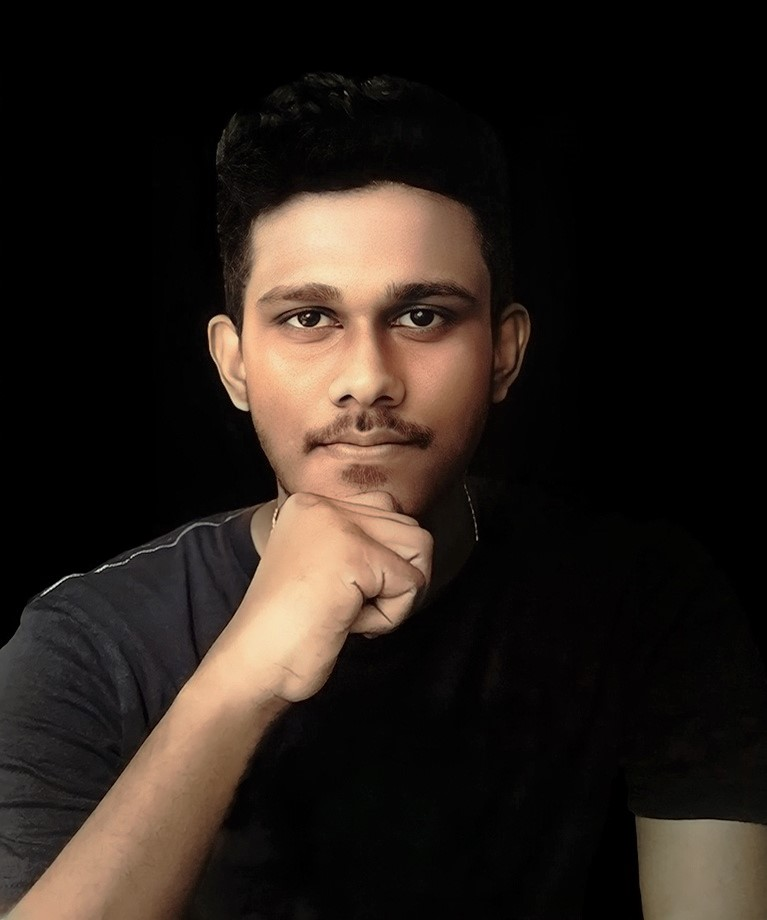
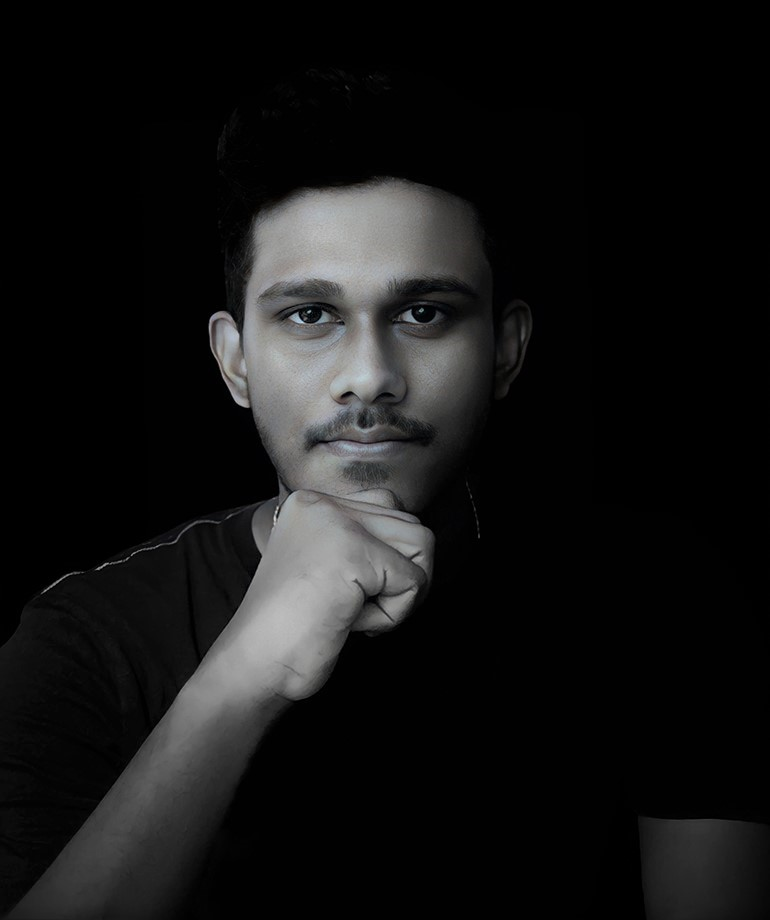
Updated UI Design

diff --git a/src/Components/Portfolio.jsx b/src/Components/Portfolio.jsx
@@ -6,14 +6,14 @@ import p3 from "../Assets/proj3.png"
 const Portfolio = () => {
   return (
     <div id="portfolio" name="portfolio" className="dark-back w-full h-max">
-        <div className="max-w-screen-lg mx-auto p-4 flex flex-col justify-center w-full font-color1">
+        <div className="max-w-screen-xl mx-auto p-4 flex flex-col justify-center w-full font-color1">
             <div className="mt-10 lg:mt-20">
                 <div className="text-center">
-                <p className="text-4xl sm:text-6xl font-extrabold font-main text-white border-b-2 border-cyan-500 p-2 inline">
-                    Portfolio
+                <p className="text-3xl sm:text-6xl font-light font-hero text-slate-500 border-b border-teal-400 p-2 inline">
+                    P O R T F O L I O
                 </p>
                 </div>
-                <p className="text-base sm:text-2xl text-center font-semibold mt-16 mb-16 text-sky-400 font-logo">
+                <p className="text-base sm:text-2xl text-center font-normal mt-16 mb-16 text-teal-400 font-logo">
                     Freely inspired design projects
                 </p>
             </div>
@@ -22,8 +22,8 @@ const Portfolio = () => {
                     <img src={p1} alt="" loading="lazy" className="rounded-lg w-3/4 font-color1 hover:scale-105 duration-300 mx-auto lg:mt-4 lg:ml-10"/>
                 </div>
                 <div className="mt-4 lg:mt-0 text-center lg:text-left lg:border-r-2 lg:border-white lg:border-opacity-5">
-                    <h4 className="py-4 sm:text-lg lg:text-2xl font-logo font-semibold border-b-2 border-sky-400 lg:mr-10 ">Sampath Vishwa App Design</h4>
-                    <p className=" indent-6 text-justify text-sm font-logo mt-4 mb-8 text-gray-300 mx-auto lg:mr-10">
+                    <h4 className="py-4 sm:text-lg lg:text-3xl font-hero mt-4 font-light border-b border-teal-400 lg:mr-10 ">SAMPATH VISHWA APP DESIGN</h4>
+                    <p className=" indent-6 text-justify text-sm font-logo mt-4 mb-8 lg:mt-16 lg:mb-16 text-gray-300 mx-auto lg:mr-10">
                                 Here is my project of redesigning the mobile app for
                                 well-known bank called Sampath Bank in Sri Lanka.
                                 Currently the "Sampath Vishwa" the mobile banking app
@@ -34,13 +34,13 @@ const Portfolio = () => {
                                 iOS interface.
                                 Please click the link below to check the full project on Behance.                             
                     </p>
-                    <a href="https://www.behance.net/gallery/159063705/iOS-User-Interface-for-Sampath-Vishwa-App" target="_blank" rel="noreferrer" className="text-base text-sky-400 font-logo font-medium animate-pulse hover:animate-none">View full project</a>
+                    <a href="https://www.behance.net/gallery/159063705/iOS-User-Interface-for-Sampath-Vishwa-App" target="_blank" rel="noreferrer" className="text-base text-teal-400 font-logo font-medium animate-pulse hover:animate-none">View full project</a>
                 </div>
                 <div className="mt-14 lg:mt-0 text-center lg:text-left lg:border-l-2 lg:border-white lg:border-opacity-5">
-                    <h4 className="py-4 sm:text-base lg:text-2xl font-logo font-semibold border-b-2 border-sky-400 lg:ml-10">
-                        Absolute Beverages App Design
+                    <h4 className="py-4 sm:text-lg lg:text-3xl mt-4 font-hero font-light border-b border-teal-400 lg:ml-10">
+                        ABSOLUTE BEVERAGES APP DESIGN
                     </h4>
-                    <p className="text-justify indent-6 text-sm font-logo mt-4 mb-8 mx-auto lg:ml-10 text-gray-300">
+                    <p className="text-justify indent-6 text-sm font-logo mt-8 mb-8 lg:mt-16 lg:mb-16 mx-auto lg:ml-10 text-gray-300">
                             The Absolute Beverages is a mobile app for purchase beverages 
                             through online. Users can simply log in to the app and 
                             they can buy their favorite products and also can add them 
@@ -50,7 +50,7 @@ const Portfolio = () => {
                             Hope to develop it as a full design project in future.
                             Please click the link below to check the full project on Behance.  
                     </p>  
-                    <a href="https://www.behance.net/gallery/159225747/Absolute-Beverages-iOS-Concept-App"  target="_blank" rel="noreferrer" className="text-base text-sky-400 font-logo font-medium lg:ml-10 animate-pulse hover:animate-none">View full project</a>  
+                    <a href="https://www.behance.net/gallery/159225747/Absolute-Beverages-iOS-Concept-App"  target="_blank" rel="noreferrer" className="text-base text-teal-400 font-logo font-medium lg:ml-10 animate-pulse hover:animate-none">View full project</a>  
                 </div>
                 <div className="">
                     <img src={p2} alt="" loading="lazy" className="rounded-lg w-3/4 font-color1 hover:scale-105 duration-300 mx-auto lg:mr-10 mt-8 lg:mt-4"/>
@@ -59,10 +59,10 @@ const Portfolio = () => {
                     <img src={p3} alt="" loading="lazy" className="rounded-lg w-3/4 font-color1 hover:scale-105 duration-300 hover:shadow-md mx-auto lg:ml-10"/>
                 </div>
                 <div className="mt-4 lg:mt-0 text-center lg:text-left lg:border-r-2 lg:border-white lg:border-opacity-5">
-                    <h4 className="py-4 sm:text-base lg:text-2xl font-logo font-semibold border-b-2 border-sky-400 lg:mr-10">
-                        NIKE Boots Store App Design
+                    <h4 className="py-4 sm:text-base lg:text-3xl font-hero mt-4 font-light border-b border-teal-400 lg:mr-10">
+                        NIKE BOOTS STORE APP DESIGN
                     </h4>
-                    <p className="indent-6 text-justify text-sm font-logo mt-4 mb-8 mx-auto lg:mr-10 text-gray-300">
+                    <p className="indent-6 text-justify text-sm font-logo mt-4 mb-8 lg:mt-16 lg:mb-16 mx-4 lg:mx-auto lg:mr-10 text-gray-300">
                                 NIKE is one of the leading manufacturer in shoes
                                 for both men and women even for kids. Also they
                                 have a huge reputation in sports industry and the
@@ -74,7 +74,7 @@ const Portfolio = () => {
                                 Its not a complete design project, but you can check
                                 the demonstration of few interfaces using below link. 
                     </p>
-                    <a href="https://www.behance.net/gallery/159678531/NIKE-Boots-Store"  target="_blank" rel="noreferrer" className="text-base text-sky-400 font-logo font-medium animate-pulse hover:animate-none">View full project</a>
+                    <a href="https://www.behance.net/gallery/159678531/NIKE-Boots-Store"  target="_blank" rel="noreferrer" className="text-base text-teal-400 font-logo font-medium animate-pulse hover:animate-none">View full project</a>
                 </div>
             </div>
         </div>

diff --git a/src/Components/Home.jsx b/src/Components/Home.jsx
@@ -38,21 +38,28 @@ const Home = () => {
     return (
         <div id="home" name="home" className="h-max w-full py-4 dark-back">
 
-            <div className="max-w-screen-lg mx-auto flex flex-col items-center justify-center h-full px-4 sm:pt-16 md:flex-row">
+            <div className="max-w-screen-xl mx-auto flex flex-col items-stretch justify-center h-full px-4 sm:pt-16 md:flex-row">
 
-                <div className="flex flex-col justify-center h-full w-full"> 
+                <div className="flex flex-col justify-center h-full lg:w-[1500px] w-full"> 
                     <div className="flex">
-                        <h3 className="text-xl sm:text-2xl pt-16 pb-4 lg:pb-10 font-logo font-color1 font-light">
-                            HEY THERE, I'M RUKITH RANASINGHE !
+                        <h3 className="text-md sm:text-2xl pt-10 pb-4 font-logo font-color1 font-light">
+                            Hey There ! I'm <a href="#/" target="_blank" rel="noreferrer" className="font-name sm:text-4xl text-3xl text-teal-400 cursor-text">Rukith Ranasinghe</a>
                         </h3>
-                        <img src={Heart} alt="my profile" className="w-16 h-16 sm:w-20 sm:h-20 mt-14 sm:mt-10 mx-auto animate-bounceSlow" />
+                        <img src={Heart} alt="my profile" className="w-12 h-12 sm:w-16 sm:h-16 mt-12 sm:mt-8 mb-8 mx-10 animate-bounceSlow" />
                     </div>
-                     <h2 className="text-4xl sm:text-6xl font-extrabold font-logo bg-gradient-to-r from-sky-500 via-green-400 to-green-500 bg-clip-text text-transparent">
-                        DESIGNER, DEVELOPER AND SOLUTION PROVIDER
+                     {/* <h2 className="text-4xl sm:text-6xl font-extrabold font-logo bg-gradient-to-r from-teal-500 via-green-400 to-green-500 bg-clip-text text-transparent"> */}
+                     <h2 className="text-4xl sm:text-7xl font-light font-hero text-slate-500 hover:text-slate-300 duration-300 mb-2">
+                        UI DESIGNER
                     </h2>
-                    <p className="font-color2 my-6 py-2 px-2 rounded-lg max-w-md font-normal back-gray1 text-base sm:text-lg font-main">
-                        Amatuer level <a href="https://www.interaction-design.org/literature/topics/ui-design" target="_blank" rel="noreferrer" className="font-medium text-sm sm:text-base text-sky-400">UI Engineer</a><br/>
-                        Undergraduate at <a href="https://www.nibm.lk/" target="_blank" rel="noreferrer" className="font-medium text-sm sm:text-base text-sky-400">NIBM - Colombo, Sri Lanka</a>
+                    <h2 className="text-4xl sm:text-7xl font-light font-hero text-slate-500 hover:text-slate-300 duration-300 mb-2">
+                        WEB DEVELOPER
+                    </h2>
+                    <h2 className="text-4xl sm:text-7xl font-light font-hero text-slate-500 hover:text-slate-300 duration-300">
+                        SOLUTION PROVIDER
+                    </h2>
+                    <p className="font-color2 my-6 py-2 px-4 rounded-lg max-w-md font-normal back-gray1 text-base sm:text-lg font-main">
+                        BSc (Hons) in <a href="https://www.nibm.lk/programmes/bsc-hons-computing/" target="_blank" rel="noreferrer" className="font-medium text-sm sm:text-base text-teal-400">Computer Science</a><br/>
+                        Undergraduate at <a href="https://www.nibm.lk/" target="_blank" rel="noreferrer" className="font-medium text-sm sm:text-base text-teal-400">NIBM - Colombo, Sri Lanka</a>
                     </p>
                     
                     <h4 className="font-color2 text-base sm:text-lg mt-4 font-logo">Get in touch</h4>
@@ -64,7 +71,7 @@ const Home = () => {
                 </div>
                 <div className="sm:ml-12 mt-6 sm:mt-20">
                     <img src={MyImage} alt="my profile"
-                    className="rounded-lg w-full" />
+                    className="rounded-lg w-full mix-blend-screen" />
                 </div>
             </div>
         </div>

diff --git a/src/Components/NavBar.jsx b/src/Components/NavBar.jsx
@@ -10,22 +10,22 @@ const NavBar = () => {
     const links = [
         {
             id: 1,
-            links: 'home',
+            links: 'HOME',
             href: '#home'
         },
         {
             id: 2,
-            links: 'about',
+            links: 'ABOUT',
             href: '#about'
         },
         {
             id: 3,
-            links: 'portfolio',
+            links: 'PORTFOLIO',
             href: '#portfolio'
         },
         {
             id: 4,
-            links: 'experience',
+            links: 'EXPERIENCE',
             href: '#experience'
         },
         // {
@@ -37,15 +37,15 @@ const NavBar = () => {
     return (
         <div className="flex justify-between items-center w-full h-10 sm:h-20 px-4 py-4 dark-back fixed z-10"> 
             <div className="flex cursor-default">
-                <img src={logo} alt="my logo" className="w-6 h-6 sm:h-8 sm:w-8 sm:ml-24 mt-1"/>
-                <h1 className="text-xl font-extrabold sm:text-2xl font-main ml-4 text-sky-400">RUKI7H</h1>
-                <h2 className="ml-1 mt-1 text-xs font-logo text-sky-400">TM</h2>
+                <img src={logo} alt="my logo" className="w-4 h-4 sm:h-6 sm:w-6 sm:ml-24 mt-1"/>
+                <h1 className="text-base font-bold sm:text-lg font-main ml-4 text-teal-400">RUKI7H</h1>
+                <h2 className="ml-1 mt-1 text-xs font-logo text-teal-400">TM</h2>
             </div>
 
             <ul className="hidden md:flex mr-24">
 
             {links.map(({ id, links, href}) =>(
-            <a href={href}><li key={id} className="px-4 cursor-pointer capitalize font-medium font-main text-lg font-color1 hover:-rotate-3 hover:scale-110 hover:text-green-400 duration-200">{links}</li></a>  ))}
+            <a href={href}><li key={id} className="px-4 cursor-pointer capitalize font-light font-hero text-base font-color1 hover:-rotate-3 hover:scale-110 hover:text-teal-400 duration-200">{links}</li></a>  ))}
 
             </ul> 
 
@@ -55,7 +55,7 @@ const NavBar = () => {
                 {nav && (
                 <ul className="flex flex-col justify-center items-center absolute top-0 left-0 w-full h-screen dark-back">
                 {links.map(({ id, links, href}) =>(
-                    <a onClick={() => setNav(!nav)} href={href}><li key={id} className="px-4 cursor-pointer capitalize py-6 text-3xl font-medium font-main font-color1 hover:text-green-400 hover:-rotate-6 hover:scale-110 duration-300">{links}</li></a>  ))}
+                    <a onClick={() => setNav(!nav)} href={href}><li key={id} className="px-4 cursor-pointer capitalize py-6 text-3xl font-light font-hero font-color1 hover:text-teal-400 hover:-rotate-6 hover:scale-110 duration-300">{links}</li></a>  ))}
                 </ul>
                 )}
         </div>

diff --git a/src/Components/About.jsx b/src/Components/About.jsx
@@ -7,15 +7,15 @@ const About = () => {
             <div className="max-w-screen-lg p-4 mx-auto flex flex-col justify-center w-full h-full">
                 <div className="pb-8 mt-12 lg:mt-32 min-h-fit">
                     <div className="text-center"> 
-                    <p className="text-4xl sm:text-6xl pt-20 font-extrabold font-main text-white inline border-b-2 border-sky-500">
-                        About
+                    <p className="text-3xl sm:text-6xl pt-20 font-light font-hero text-slate-500 inline border-b border-teal-400">
+                        A B O U T
                     </p>
                     </div>
                     <div className="lg:flex items-center justify-between text-sm sm:text-lg mt-16 back-gray1 font-logo font-light font-color1 px-4 py-12 rounded-lg">
                         <div className="text-justify lg:mx-10">
                             <p className=" indent-6">
                                 Hi there, I'm Rukith Ranasinghe 23 year old Sri Lanka 
-                                based UI Designer and an Engineer. Currently I'm an 
+                                based UI Designer and an Engineer. Currently I'm a 
                                 Computer Science undergraduate at National Institute of Business Management
                                 Colombo, Sri Lanka. I'm passionate about all the creative things.
                                 I was previously a trainee full stack developer in a company for about

diff --git a/src/Components/Experience.jsx b/src/Components/Experience.jsx
@@ -34,7 +34,7 @@ const Experience = () => {
             id: 4,
             src: csharp,
             title: 'C#',
-            // style: 'shadow-sky-500'
+            // style: 'shadow-teal-500'
         },
         {
             id: 5,
@@ -73,11 +73,11 @@ const Experience = () => {
             <div className="max-w-screen-lg mx-auto p-4 flex flex-col justify-center w-full font-color1">
                 <div className="mt-10 lg:mt-20">
                     <div className="text-center">
-                    <p className="text-4xl sm:text-6xl font-extrabold font-main text-white border-b-2 border-cyan-500 p-2 inline">
-                        Experience
+                    <p className="text-3xl sm:text-6xl font-light font-hero text-slate-500 border-b border-teal-400 p-2 inline">
+                        E X P E R I E N C E
                     </p>
                     </div>
-                    <p className="text-base sm:text-2xl text-center font-semibold mt-16 text-sky-400 first:last:  font-logo">
+                    <p className="text-base sm:text-2xl text-center font-normal mt-16 text-teal-400 first:last:  font-logo">
                         Technologies I've experienced in
                     </p>
                 </div>

diff --git a/src/index.css b/src/index.css
@@ -1,6 +1,8 @@
 @import url('https://fonts.googleapis.com/css2?family=Poppins:ital,wght@0,100;0,200;0,300;0,400;0,500;0,600;0,700;0,800;0,900;1,100;1,200;1,300;1,400;1,500;1,600;1,700;1,800;1,900&display=swap');
 @import url('https://fonts.googleapis.com/css2?family=Comfortaa:wght@300;400;500;600;700&family=Poppins:ital,wght@0,100;0,200;0,300;0,400;0,500;0,600;0,700;0,800;0,900;1,100;1,200;1,300;1,400;1,500;1,600;1,700;1,800;1,900&display=swap');
 @import url('https://fonts.googleapis.com/css2?family=Nunito:wght@200;300;400;500;600;700;800;900;1000&display=swap');
+@import url('https://fonts.googleapis.com/css2?family=Josefin+Sans:wght@100;200;300;400;500;600;700&display=swap');
+@import url('https://fonts.googleapis.com/css2?family=Allura&display=swap');
 
 @tailwind base;
 @tailwind components;
@@ -10,6 +12,8 @@
   html {
     font-family: 'Poppins', sans-serif;
     font-family: 'Comfortaa', cursive;
+    font-family: 'Josefin Sans', sans-serif;
+    font-family: 'Allura', cursive;
   }
 }
 

diff --git a/tailwind.config.js b/tailwind.config.js
@@ -7,9 +7,11 @@ module.exports = {
   theme: {
     extend: {
       fontFamily: {
-        logo: ["Poppins"],
+        hero: ["Josefin Sans"],
         headTitle: ["Comfortaa"],
         main: ["Nunito"],
+        logo: ["Poppins"],
+        name: ["Allura"],
       }
     },
   },
